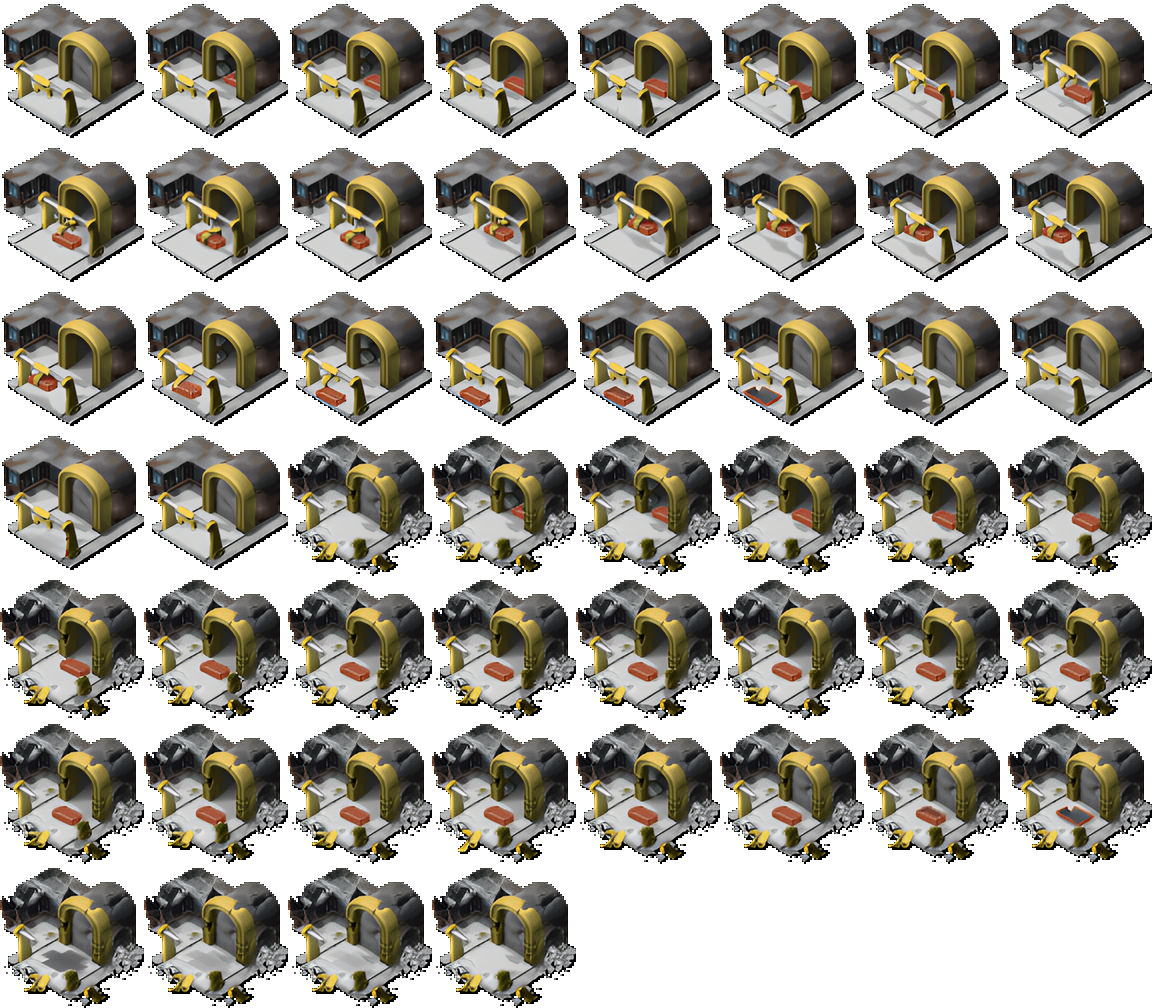
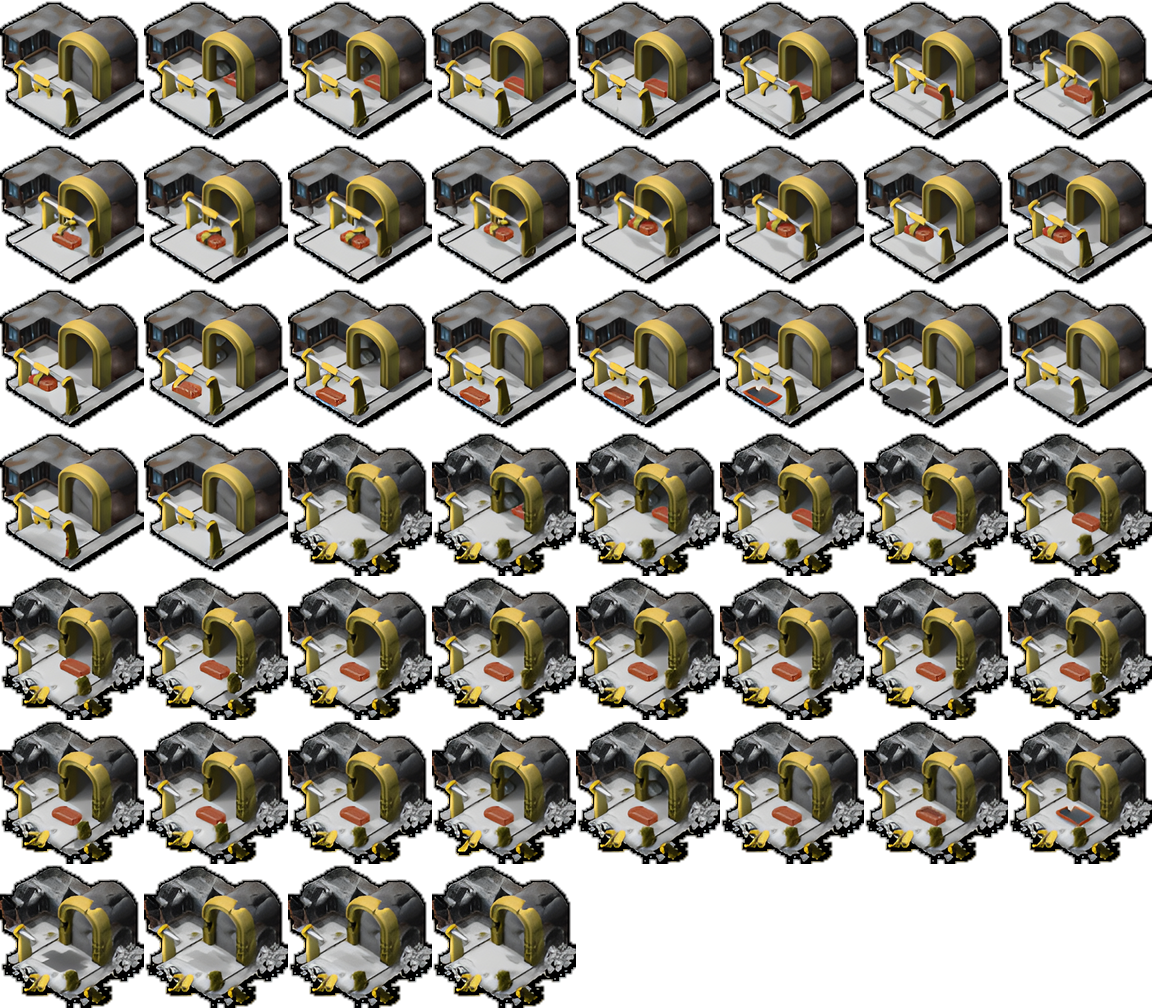
feat(renderer): add PlayerColorShift for RGBA HD sprites
- Add PlayerColorShift + PlayerColorShift@NOSHADOW to RA palettes.yaml
  with hue range [0.079, 0.156] matching gold/yellow remap colors
- Guard PlayerColorShift.LoadPlayerPalettes with HasPalette check to
  handle trait ordering (PlayerColorShift may run before
  PlayerColorPalette creates palettes)
- Two-pass UpdatePalettesForPlayer in WorldRenderer ensures color
  shifts apply after all palettes exist
- Add WorldRenderer.HasPalette(string) method
- Repack HD sprite sheets with improved transparency (bilinear alpha
  upscale, dilation, edge decontamination)

diff --git a/OpenRA.Game/Graphics/WorldRenderer.cs b/OpenRA.Game/Graphics/WorldRenderer.cs
@@ -91,8 +91,16 @@ namespace OpenRA.Graphics
 
 		public void UpdatePalettesForPlayer(string internalName, Color color, bool replaceExisting)
 		{
-			foreach (var pal in World.WorldActor.TraitsImplementing<ILoadsPlayerPalettes>())
+			var traits = World.WorldActor.TraitsImplementing<ILoadsPlayerPalettes>().ToArray();
+			foreach (var pal in traits)
 				pal.LoadPlayerPalettes(this, internalName, color, replaceExisting);
+
+			// Second pass with replaceExisting=true: traits that depend on palettes
+			// created by other traits (e.g. PlayerColorShift depends on PlayerColorPalette)
+			// may have been skipped in the first pass due to ordering. Re-run them now
+			// that all palettes exist.
+			foreach (var pal in traits)
+				pal.LoadPlayerPalettes(this, internalName, color, true);
 		}
 
 		PaletteReference CreatePaletteReference(string name)
@@ -134,6 +142,11 @@ namespace OpenRA.Graphics
 		public void SetPaletteColorShift(string name, float hueOffset, float satOffset, float valueModifier, float minHue, float maxHue)
 		{
 			palette.SetColorShift(name, hueOffset, satOffset, valueModifier, minHue, maxHue);
+		}
+
+		public bool HasPalette(string name)
+		{
+			return palette.Contains(name);
 		}
 
 		// PERF: Avoid LINQ.

diff --git a/OpenRA.Mods.Common/Traits/Palettes/PlayerColorShift.cs b/OpenRA.Mods.Common/Traits/Palettes/PlayerColorShift.cs
@@ -53,9 +53,16 @@ namespace OpenRA.Mods.Common.Traits
 
 		public void LoadPlayerPalettes(WorldRenderer wr, string playerName, Color color, bool replaceExisting)
 		{
+			var paletteName = info.BasePalette + playerName;
+
+			// PlayerColorShift runs via ILoadsPlayerPalettes alongside PlayerColorPalette.
+			// Depending on trait iteration order the palette may not exist yet — skip it.
+			if (!wr.HasPalette(paletteName))
+				return;
+
 			var (r, g, b) = color.ToLinear();
 			var (h, s, v) = Color.RgbToHsv(r, g, b);
-			wr.SetPaletteColorShift(info.BasePalette + playerName,
+			wr.SetPaletteColorShift(paletteName,
 				h - info.ReferenceHue, s - info.ReferenceSaturation, v / info.ReferenceValue,
 				info.MinHue, info.MaxHue);
 		}
